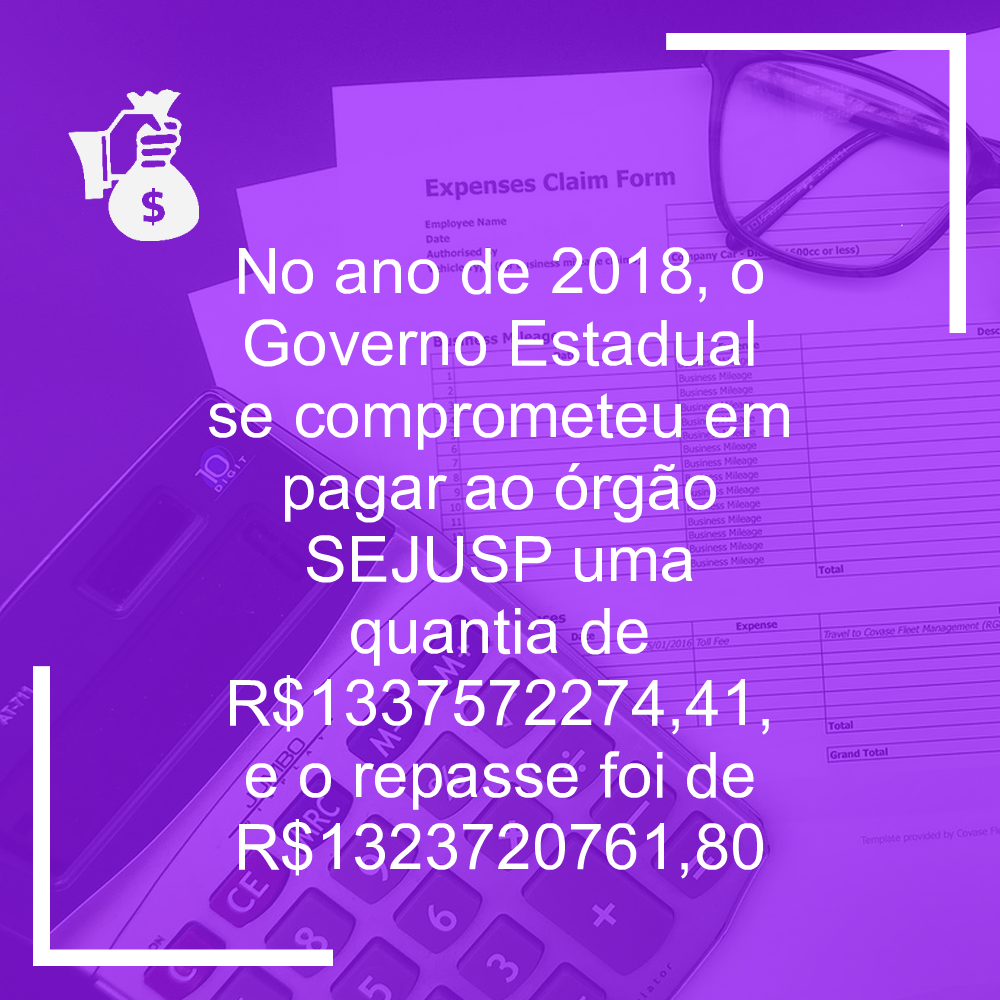
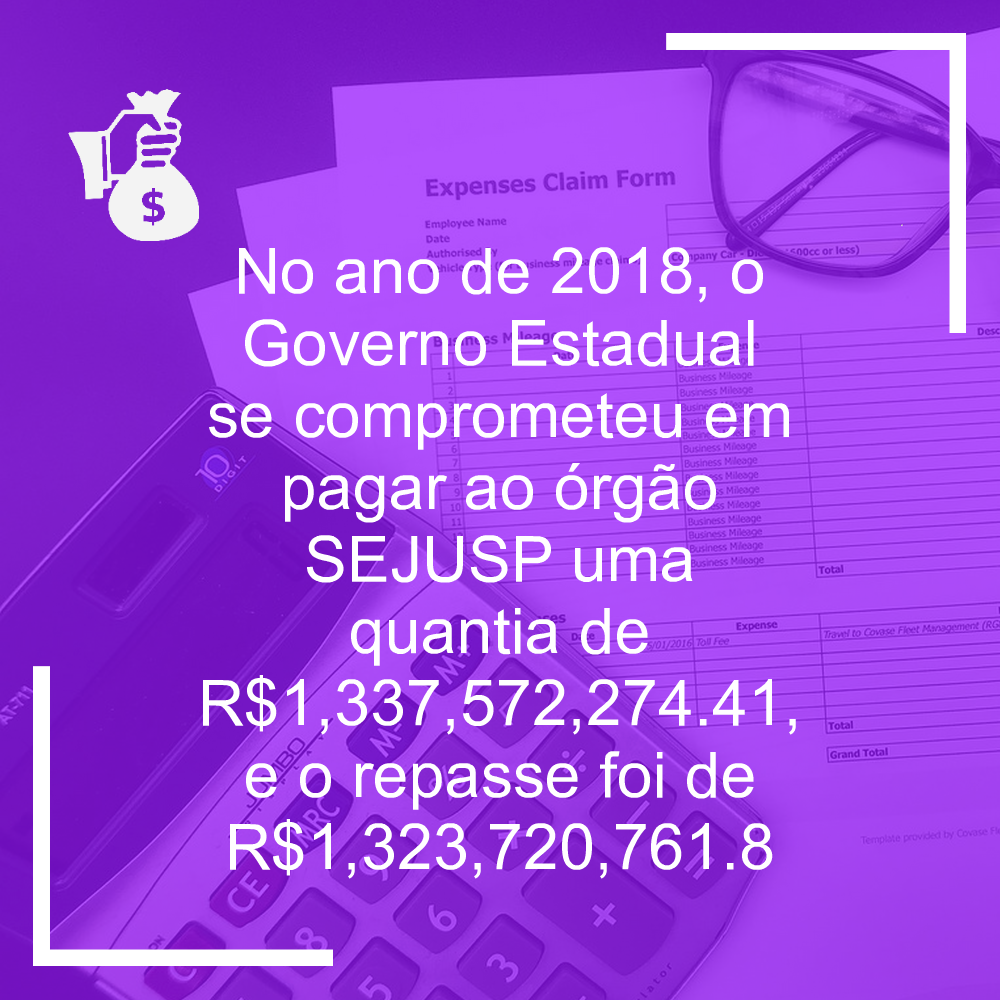
updates

Changed region(s): [[0.186, 0.651, 0.775, 0.744], [0.217, 0.806, 0.775, 0.868]]

diff --git a/api/src/controllers/sejusp-controller.js b/api/src/controllers/sejusp-controller.js
@@ -20,18 +20,24 @@ const read = async (req, res, next) => {
         wanted[1] = "SEJUSP";
         text = text.replace("*", wanted[1]); // replace SECRETARIA...
 
+        let n =
+          data[i]["field2"].slice(data[i]["field2"].indexOf(";") + 2) +
+          "," +
+          data[i]["field3"].slice(0, data[i]["field3"].indexOf(";") - 1);
+
         text = text.replace(
           "!",
-          data[i]["field2"].slice(data[i]["field2"].indexOf(";") + 2) +
-            "," +
-            data[i]["field3"].slice(0, data[i]["field3"].indexOf(";") - 1)
+          Number(n.replace(",", ".")).toLocaleString("pt-BR")
         ); // replace Liquidado
+
+        n =
+          data[i]["field3"].slice(data[i]["field3"].indexOf(";") + 2) +
+          "," +
+          data[i]["field4"].slice(0, -1);
 
         text = text.replace(
           "@",
-          data[i]["field3"].slice(data[i]["field3"].indexOf(";") + 2) +
-            "," +
-            data[i]["field4"].slice(0, -1)
+          Number(n.replace(",", ".")).toLocaleString("pt-BR")
         ); // replace Pago
       }
     }
